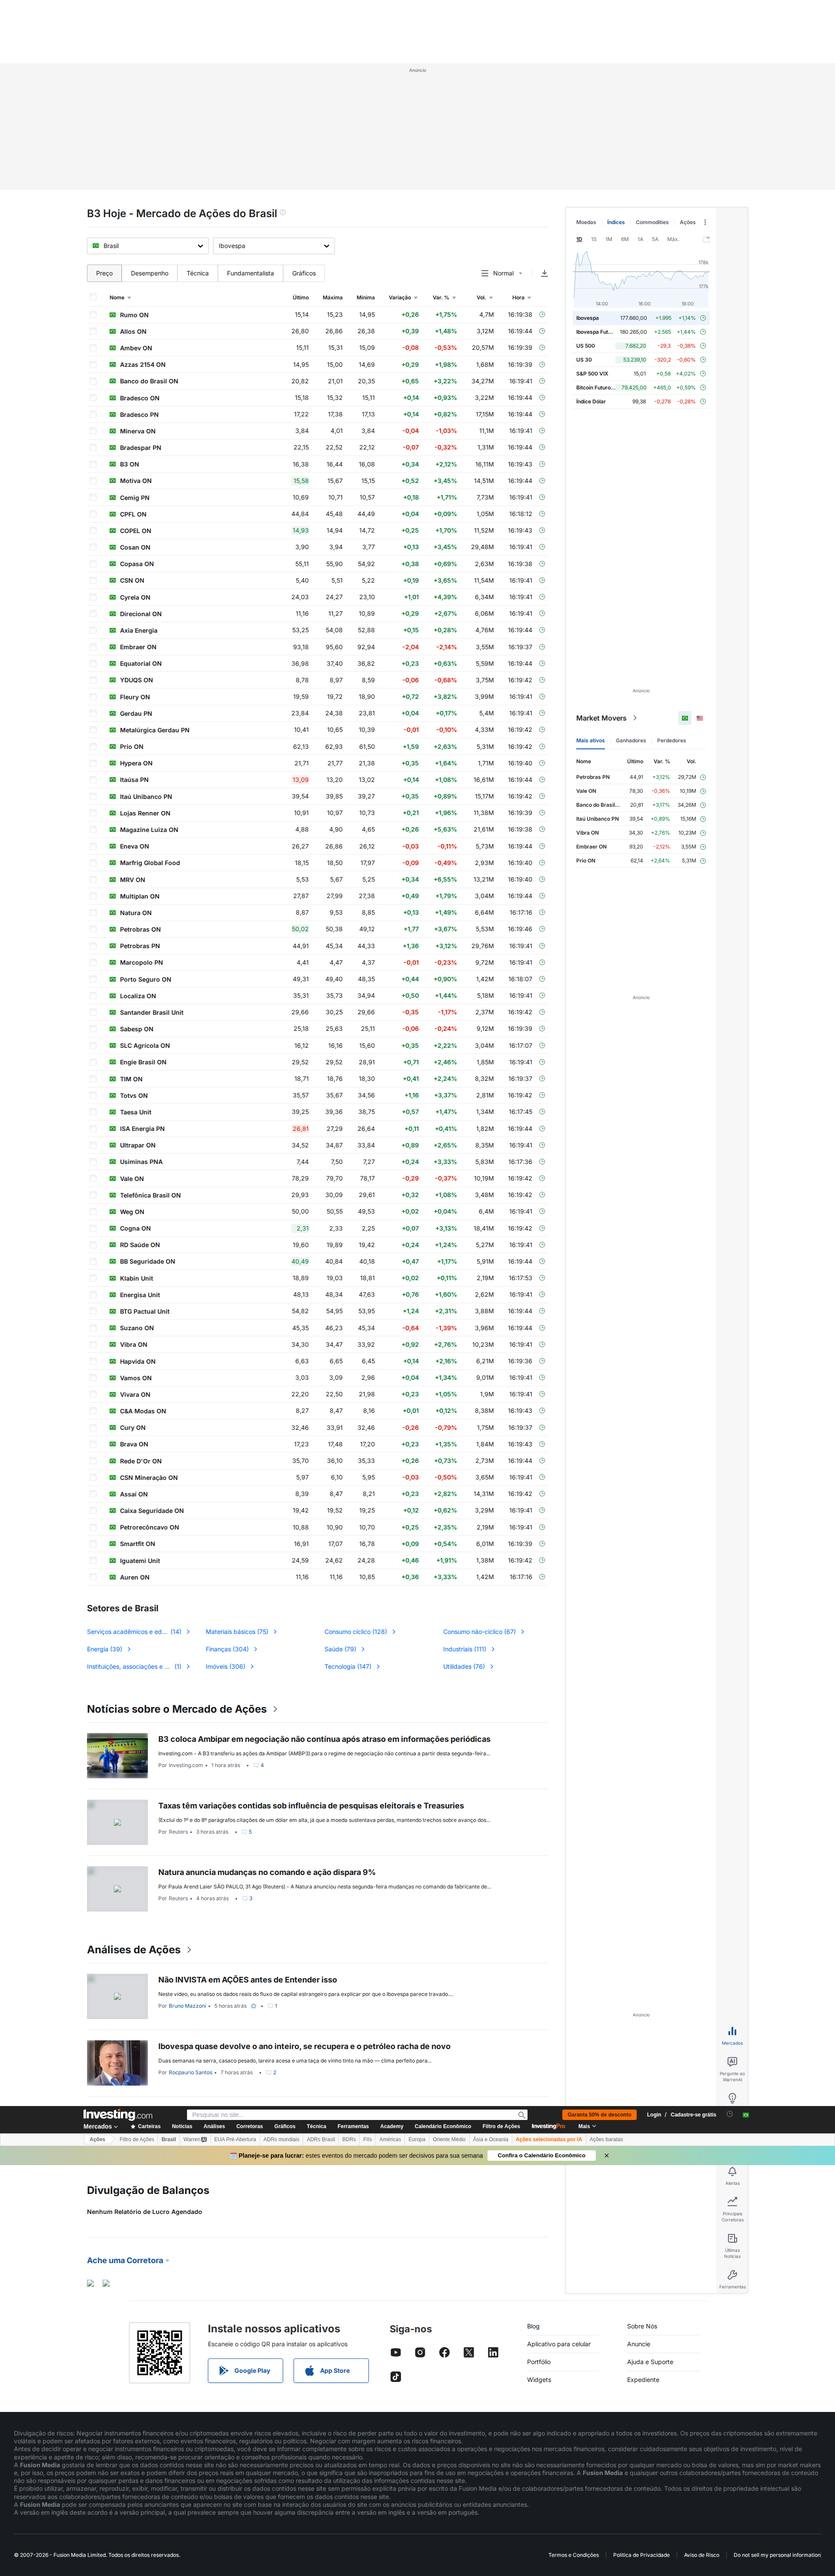
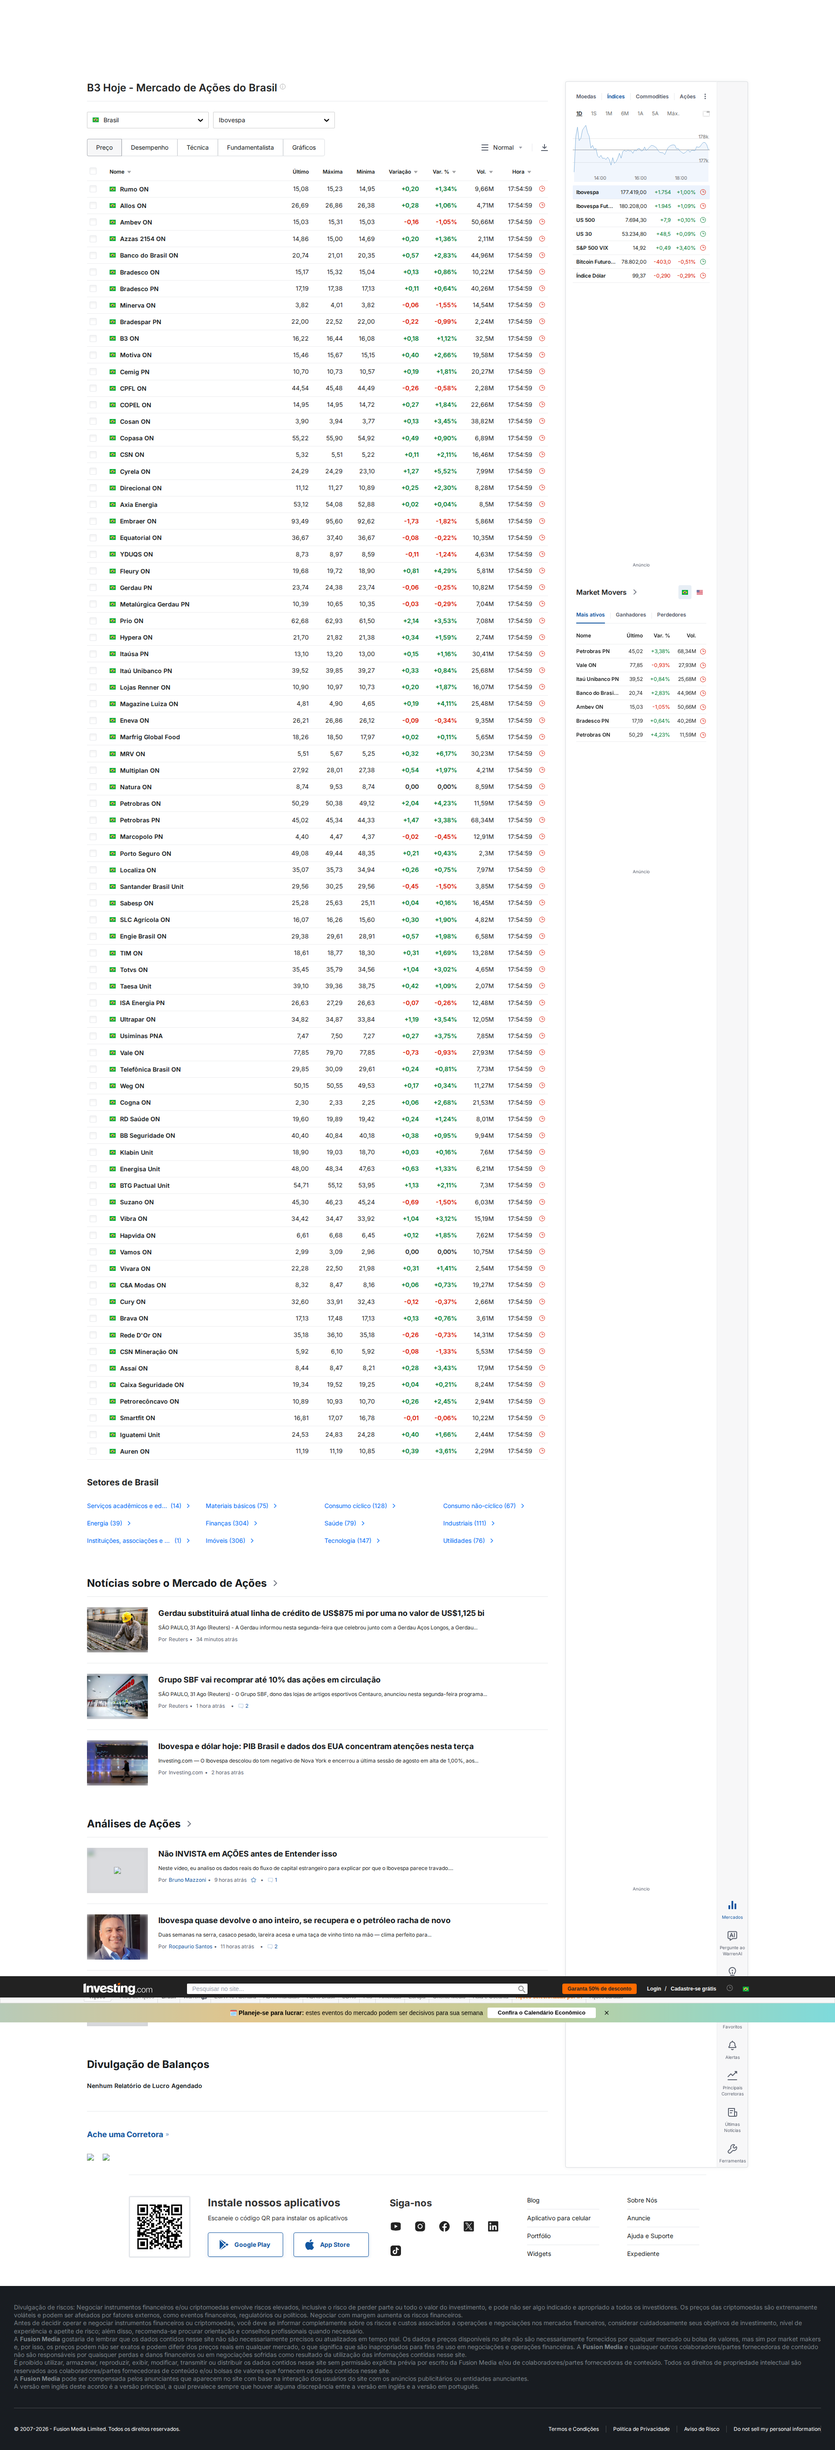
Screenshot bolsa [skip ci]

diff --git a/bolsa_out/RELATORIO.md b/bolsa_out/RELATORIO.md
@@ -1,42 +1,42 @@
-📈 Maiores Altas da Bolsa - 31/08/2026 16:35
+📈 Maiores Altas da Bolsa - 31/08/2026 20:35
 Fonte: Investing.com (Brasil)
 
 📊 Altas no Pregão (principais ações)
 | Ativo | Último | Var% | Vol |
 |-------|--------|------|-----|
-| Rumo ON | 15,14 | +1,75% | 4,7M |
-| Allos ON | 26,80 | +1,48% | 3,12M |
-| Azzas 2154 ON | 14,95 | +1,98% | 1,68M |
-| Banco do Brasil ON | 20,82 | +3,22% | 34,27M |
-| Bradesco ON | 15,18 | +0,93% | 3,22M |
-| Bradesco PN | 17,22 | +0,82% | 17,15M |
-| B3 ON | 16,38 | +2,12% | 16,11M |
-| Motiva ON | 15,58 | +3,45% | 14,51M |
-| Cemig PN | 10,69 | +1,71% | 7,73M |
-| CPFL ON | 44,84 | +0,09% | 1,05M |
+| Rumo ON | 15,08 | +1,34% | 9,66M |
+| Allos ON | 26,69 | +1,06% | 4,71M |
+| Azzas 2154 ON | 14,86 | +1,36% | 2,11M |
+| Banco do Brasil ON | 20,74 | +2,83% | 44,96M |
+| Bradesco ON | 15,17 | +0,86% | 10,22M |
+| Bradesco PN | 17,19 | +0,64% | 40,26M |
+| B3 ON | 16,22 | +1,12% | 32,5M |
+| Motiva ON | 15,46 | +2,66% | 19,58M |
+| Cemig PN | 10,70 | +1,81% | 20,27M |
+| COPEL ON | 14,95 | +1,84% | 22,66M |
 
 🚀 Top Maiores Altas (Investing)
 | # | Ativo | Último | Var% | Vol |
 |---|-------|--------|------|-----|
-| 1 | Casas Bahia ON | 0,67 | +67,50% | 30,38M |
-| 2 | GoPro BDR | 4,25 | +37,10% | 42,70mil |
-| 3 | FII RBR Desenvolvimento Comercial Feeder FOF | 80,00 | +33,33% | 1,00 |
-| 4 | Azevedo & Travassos ON | 5,32 | +29,44% | 2,23M |
-| 5 | Fiagro High | 14,74 | +21,72% | 140,00 |
-| 6 | CEG ON | 35,00 | +16,67% | 600,00 |
-| 7 | FII Europar | 350,00 | +15,14% | 211,00 |
+| 1 | Casas Bahia ON | 0,67 | +67,50% | 34,99M |
+| 2 | Casas Bahia ON | 0,66 | +65,00% | 34,56M |
+| 3 | GoPro BDR | 4,57 | +47,42% | 57,72mil |
+| 4 | FII RBR Desenvolvimento Comercial Feeder FOF | 80,00 | +33,33% | 1,00 |
+| 5 | Azevedo & Travassos ON | 5,45 | +32,60% | 2,38M |
+| 6 | Azul Unt | 7,34 | +24,41% | 10,00 |
+| 7 | Fiagro High | 14,74 | +21,72% | 140,00 |
 
 🌍 Yahoo (mundial) top altas
 | Símbolo | Nome | Preço | Var% |
 |---------|------|-------|------|
-| NU | Nu Holdings Ltd. | 14.60 | +2.06% |
-| NVDA | NVIDIA Corporation | 219.71 | +1.00% |
-| PATH | UiPath, Inc. | 18.55 | +2.18% |
-| INTC | Intel Corporation | 89.53 | +0.07% |
-| TSLA | Tesla, Inc. | 367.32 | +5.32% |
-| SPCX | Space Exploration Technologies Corp. | 142.47 | +0.69% |
-| ABEV | Ambev S.A. | 2.88 | +0.52% |
-| SNAP | Snap Inc. | 5.53 | +1.84% |
+| CNH | CNH Industrial N.V. | 11.83 | +1.28% |
+| NVDA | NVIDIA Corporation | 220.78 | +1.48% |
+| NU | Nu Holdings Ltd. | 14.55 | +1.75% |
+| INTC | Intel Corporation | 89.51 | +0.04% |
+| SPCX | Space Exploration Technologies Corp. | 143.69 | +1.55% |
+| PATH | UiPath, Inc. | 18.67 | +2.87% |
+| TSLA | Tesla, Inc. | 367.95 | +5.51% |
+| ABEV | Ambev S.A. | 2.87 | +0.35% |
 
 ---
 Gerado automaticamente. Valores podem ter atraso.
